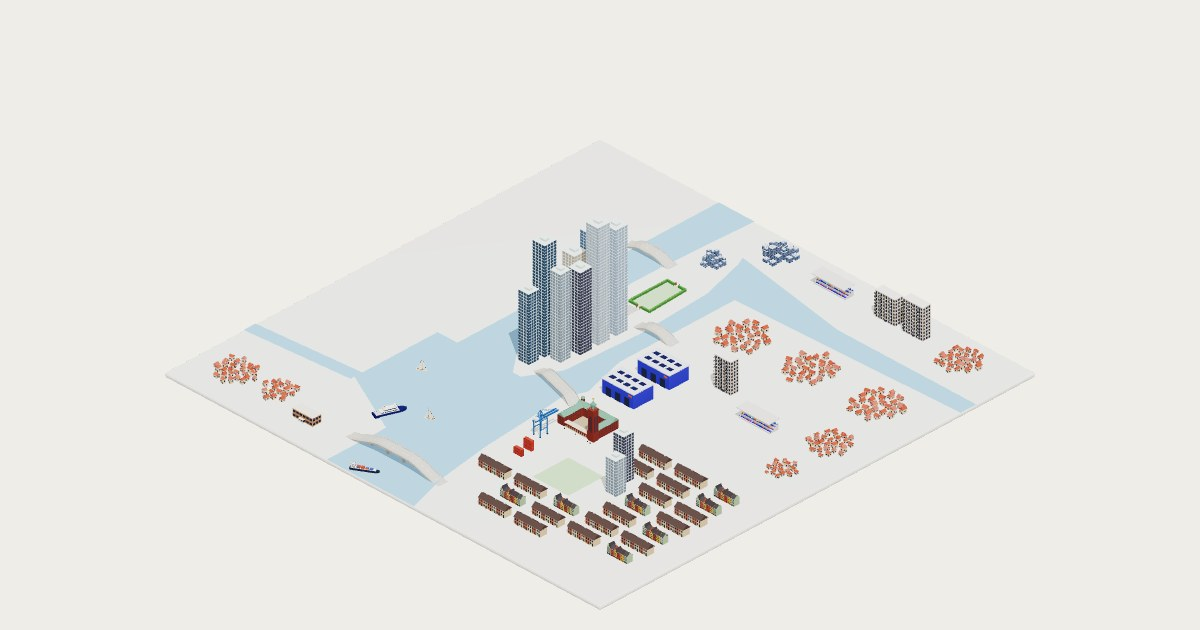
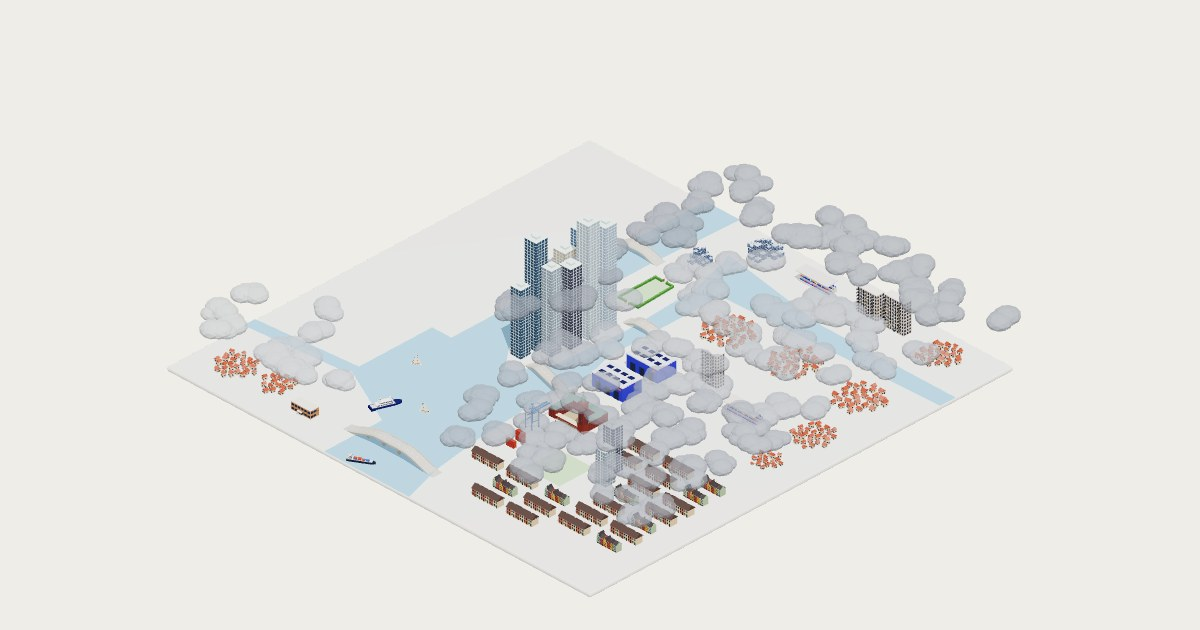
feat: world pictures show areas' clouds, so a data map's card shows its weather (#67)
- The clouds over areas are a component of their own that takes the light, sky and hour instead of reading the editor: the view and the picture renderer draw the same clouds
- A world's picture draws each area's own weather's clouds, from its data, greyer where it rains or storms; worlds without area weather draw as before
- NYC 311's starter pictures and link preview remade
- TODO: what pictures still leave out

Changed region(s): [[0.1542, 0.2413, 0.8633, 0.9048], [0.3083, 0.5429, 0.3392, 0.573]]

diff --git a/src/render/scenePictures.tsx b/src/render/scenePictures.tsx
@@ -3,6 +3,7 @@ import { createRoot, extend, useThree } from "@react-three/fiber";
 import { useEffect, useRef, useSyncExternalStore } from "react";
 import * as THREE from "three";
 
+import { areaWeathersNow } from "#/editor/weather";
 import { toRadians } from "#/lib/math";
 import { colorOf, resolveColors, resolveTransparencies } from "#/parts/colorModel";
 import { resolveLights } from "#/parts/lightModel";
@@ -17,6 +18,7 @@ import { groundSurfaceOf } from "#/scene/surfaces";
 import { type IScenePalette, scenePalettes, type TResolvedTheme } from "#/scene/theme";
 
 import { AreaBody } from "./AreaMesh";
+import { CloudsOverAreas } from "./AreaWeather";
 import { FenceBody } from "./FenceMesh";
 import { JunctionBodies } from "./JunctionMesh";
 // Prefabs' copies draw their pieces with it (ADR-0134).
@@ -29,7 +31,8 @@ import { useSurfaceShading } from "./useSurfaceShading";
 /**
  * Pictures of whole worlds, rendered in the browser from the worlds
  * themselves, like the part thumbnails (ADR-0036): the ground, areas, roads
- * and objects as they stand when the world opens, seen from the default angle
+ * and objects as they stand when the world opens, and the clouds of areas'
+ * own weather, seen from the default angle
  * on a transparent background. One offscreen canvas renders what's asked for,
  * then goes away; the images live in memory only. See
  * docs/adr/0047-new-world-dialog.md. The built-in worlds' pictures are made
@@ -188,6 +191,9 @@ const Picture = ({ scene, palette, format, onShot }: IPictureProps) => {
 		entities.filter((entity) => partIn(entity.kind, scene.prefabs)?.rendersAsync).length,
 	);
 	const network = roadNetworkOf(scene.roads, scene.junctions);
+	// Areas' own weather shows as its clouds, greyer where it rains or storms (ADR-0151): what reads
+	// in a card. What falls, and the ground's snow and wetness, are left to the live view.
+	const weathers = areaWeathersNow(scene.areas, scene.data);
 	const groundSurface = useSurfaceShading(groundSurfaceOf(scene.ground, scene.surface), false);
 
 	const shoot = () => {
@@ -303,6 +309,16 @@ const Picture = ({ scene, palette, format, onShot }: IPictureProps) => {
 						onReady={onReady}
 					/>
 				))}
+
+				{weathers.length > 0 && (
+					<CloudsOverAreas
+						weathers={weathers}
+						lighting={scene.lighting}
+						sky={scene.sky}
+						hour={scene.lighting.time}
+						playing={false}
+					/>
+				)}
 			</group>
 		</>
 	);

diff --git a/src/render/AreaWeather.tsx b/src/render/AreaWeather.tsx
@@ -17,6 +17,7 @@ import { mixColor } from "#/lib/color";
 import { motionClock } from "#/lib/motionClock";
 import { jitter } from "#/parts/primitives";
 import { isHiddenArea, isInsidePolygon, polygonArea } from "#/scene/areas";
+import type { TScene } from "#/scene/schema";
 import { skyLookAt } from "#/scene/sky";
 import { skyLightAt } from "#/scene/sun";
 import { type IWeatherMap, WEATHER_MAP_STRIDE, weatherMapOf } from "#/scene/weatherMap";
@@ -389,6 +390,40 @@ const AreaClouds = ({ weathers }: { weathers: readonly IAreaWeatherNow[] }) => {
 	const sky = useEditor((s) => s.scene.sky);
 	const playing = useEditor((s) => s.playing);
 	const hour = useSceneHours();
+	return (
+		<CloudsOverAreas
+			weathers={weathers}
+			lighting={lighting}
+			sky={sky}
+			hour={hour}
+			playing={playing}
+		/>
+	);
+};
+
+interface ICloudsOverAreasProps {
+	weathers: readonly IAreaWeatherNow[];
+	/** What tints them: the world's light and sky at an hour. */
+	lighting: TScene["lighting"];
+	sky: TScene["sky"];
+	/** The hour shown (null: as the lighting says, `skyLookAt`). */
+	hour: number | null;
+	/** Whether they drift (motion playing); still, they stand where the motion clock left them. */
+	playing: boolean;
+}
+
+/**
+ * The clouds over areas, from what's passed in rather than the editor: the
+ * view's (`AreaClouds`), and a world's picture's (render/scenePictures), so a
+ * data map's card shows its weather.
+ */
+export const CloudsOverAreas = ({
+	weathers,
+	lighting,
+	sky,
+	hour,
+	playing,
+}: ICloudsOverAreasProps) => {
 	const puffs = useMemo(() => puffsOf(weathers), [weathers]);
 	const colors = useMemo(
 		() =>

diff --git a/TODO.md b/TODO.md
@@ -30,7 +30,7 @@ Ideas from the owner, not designed yet. Each needs a design pass (and usually an
 - [ ] **Data, next (ADR-0107 to ADR-0114, docs/data-study):** rows, sizes from data, clusters, flows, the dashboard, links and APIs and stories are built. Still to do: the server pieces as designed in the study (a read-through route for sources that block browsers, Steam first; keys kept on the server; pushed values; reading when nobody has the world open); watch lines and notes on columns in the table viewer; reading JSON from an API as a table over time (a long sheet is read so, ADR-0153); a choice of how a thing with no data looks on the map; viewpoints or moods as a story's chapters.
 - [ ] **A picture of a world from an API (owner's idea, 2026-10-31):** an endpoint (say `POST /api/picture`) that takes a world's JSON and returns a picture of it (PNG, maybe WebP), for reports, chat bots, emails, a dashboard's thumbnail or a shared link's `og:image` (ADR-0006). The world goes through `repairWorld()` like any untrusted world (ADR-0104), and the request can say how to look at it: a viewpoint or a camera, the size, the time of day, a mood, the theme, the graphics preset, and values or table rows to apply first (or read its links before drawing). Workers have no WebGL, so the likely way is Cloudflare's Browser Rendering (headless Chrome driven from the worker) opening a render-only route that draws the world with the same renderer as Render a picture… (ADR-0084) and hands back the image; check its limits (GPU or SwiftShader, time per request, cost) first. Cache by a hash of the world and options; needs limits on size and requests, and probably a key. Needs an ADR. *Data:* the point of it: a picture of the world as its data stands now, e.g. a daily snapshot posted to a channel.
 - [ ] **Multiple areas / cities (SimCity-like):** several districts or grounds in one world, maybe linked by roads, each with its own name and data. Affects the scene model (ground is a single slab today), camera framing and navigation between areas.
-- [ ] **Weather, next (ADR-0102):** rain, snow, fog, haze, lightning, snow on the ground, wet ground and splashes are done, in the Weather tab, following data and kept by moods. Weather per area is done too (ADR-0151): an area's own weather (its Area weather tab), with clouds over it, lightning striking in it, its fog lying over it and the light darker under it, and the Hidden area kind (like the hidden route) to carry weather over a district without painting its ground. Areas follow a table row too (ADR-0152), so one table of districts drives every area's weather. Still to do: amounts that fall as a value rises (a sentiment score, high = calm: the weather's bindings only grow with a value); wind (rain slanting, trees bending, clouds faster); snow piling in drifts and melting from roads with traffic; puddles where it's flat; rainbows after rain; the parts catalogue and world pictures showing the weather.
+- [ ] **Weather, next (ADR-0102):** rain, snow, fog, haze, lightning, snow on the ground, wet ground and splashes are done, in the Weather tab, following data and kept by moods. Weather per area is done too (ADR-0151): an area's own weather (its Area weather tab), with clouds over it, lightning striking in it, its fog lying over it and the light darker under it, and the Hidden area kind (like the hidden route) to carry weather over a district without painting its ground. Areas follow a table row too (ADR-0152), so one table of districts drives every area's weather. Still to do: amounts that fall as a value rises (a sentiment score, high = calm: the weather's bindings only grow with a value); wind (rain slanting, trees bending, clouds faster); snow piling in drifts and melting from roads with traffic; puddles where it's flat; rainbows after rain; world pictures showing more of the weather (they draw areas' clouds; what falls, the ground's snow and wetness and an area's fog would need the weather shading's settings of their own, not the live view's).
 - [ ] **Shadows differed in darkness between page loads (once):** Brightwater's close-up at 17:30 on Standard had lighter shadows in places in two of four loads (2026-10-26, taken on a second dev server in a worktree while files changed); 22 later loads on `main`, close-up and overview, were identical. Watch for it; if it comes back, `scripts/shots.mjs` pictures of the same view diffed show where.
 - [ ] **Less flat, next:** the graphics settings are built (ADR-0072 to ADR-0081: presets, ambient occlusion, the glow after dark, real night lights, reflective water, a colour grade, distance haze, boat wakes, the shading switcher and the Overlays menu beside it, ADR-0141). Render a picture… is built (ADR-0084: the same renderer at its best, supersampled). Still to do: pictures in tiles, for any size on any card (posters, prints: the picture drawn as a grid of pieces of a normal size and stitched, with the screen-wide effects, ambient occlusion, glow, tilt-shift and the vignette, lined up across the pieces so no seams show; every piece of the same moment, so motion paused for it, and anything drawn from time following the motion clock, as the ripples, wake shimmer and beacons do, ADR-0084); more frames blended for softer shadows; path tracing for a picture (three-gpu-pathtracer: real bounced light, but our water, wakes, painted lights and effects would need rebuilding for it); WebGPU, as its own ADR. The study's prototype, the render lab (`?fx=…`), is still on the `rendering-lab` branch, locally and on GitHub: delete it when you're ready (docs/rendering-study keeps the findings).
 - [ ] **Lighting system, next:** lights are a shared system now (ADR-0058): parts declare their lights, each object sets when, colour, strength and reach per light (and lit panes for window lights), data can switch them, dim them or set their colour, and a Light part places one anywhere. With the graphics settings' real lights (ADR-0074), the nearest ones to the view light their surroundings too. Still to do: shadows from the nearest few, spot lights for beams; more shapes (an aimed spotlight or floodlight beam, a glowing sign, a blinking beacon). Mind performance: many real lights are expensive in three.js, so likely a few real ones plus the cheap painted ones.
